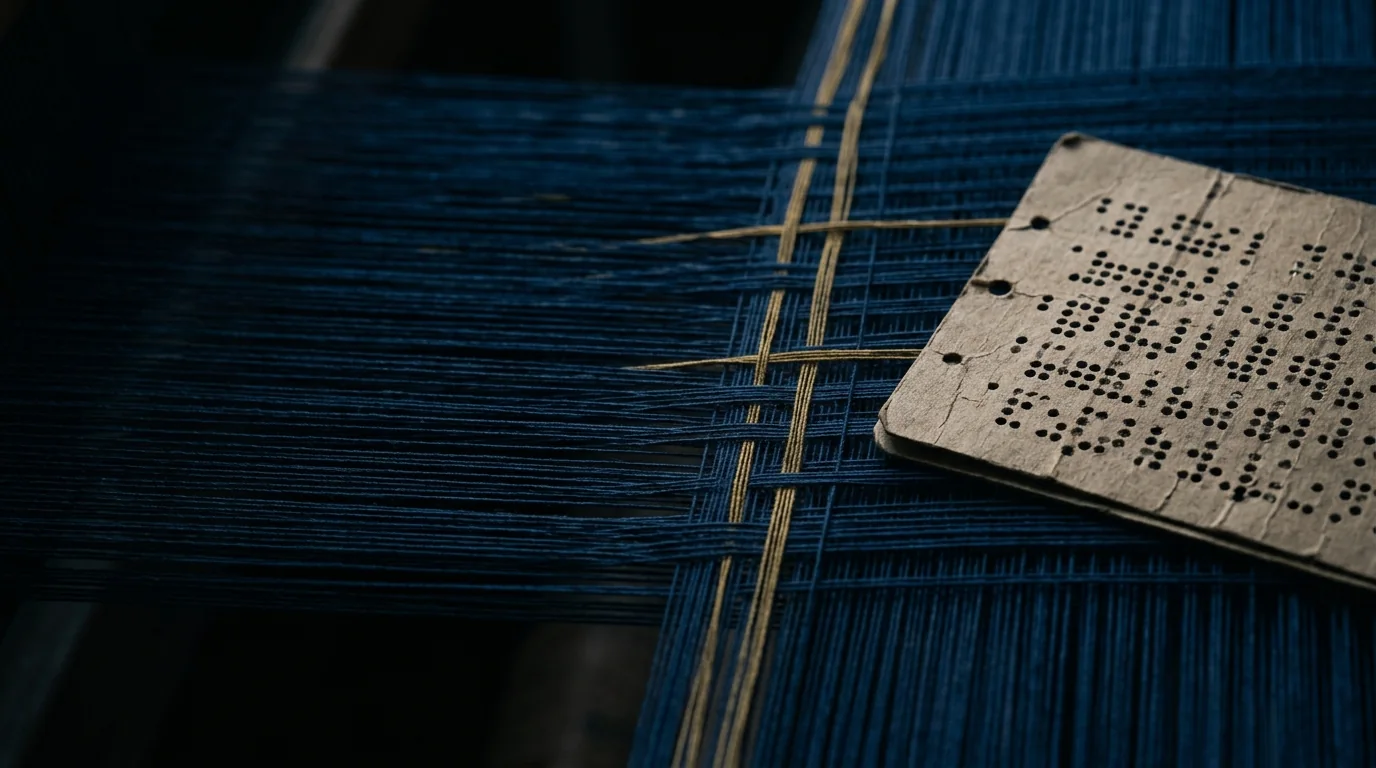
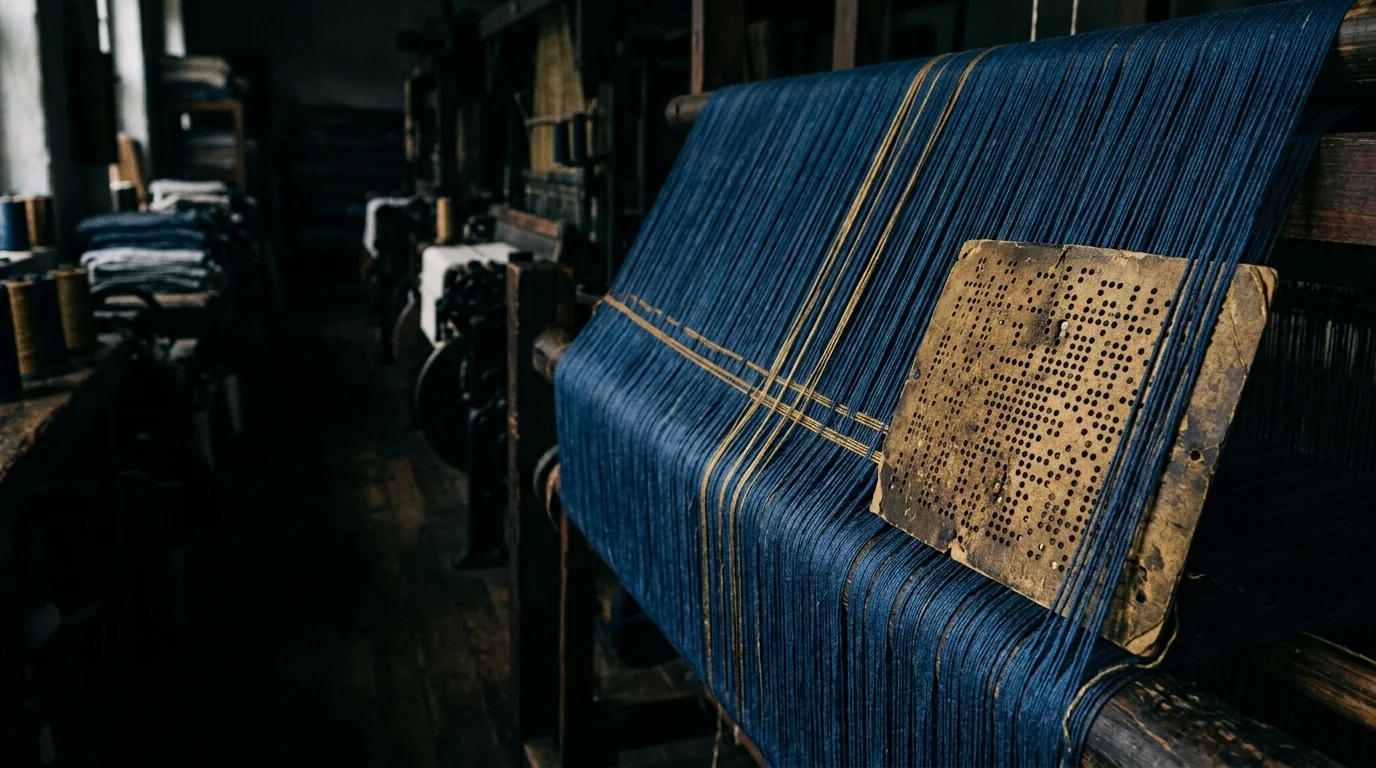
feat: hero de tela cheia com a foto do tear e a faixa institucional no pé
Ajustes pedidos pelo Bernardo:

Sai a frase "Projeto contemplado em edital público de fomento à cultura"
das duas aparições, Projeto e rodapé, já que os logos oficiais na faixa
institucional cumprem esse papel. O campo creditoEdital ficou sem uso e
saiu de site.ts junto.

Rodapé enxuto: passa de duas colunas com assinatura em Italiana e linha
de base separada para uma linha só de 78px, com nome, contato e ano.

Convite do podcast centralizado, fechando a seção como um chamado.

Hero passa a ocupar 100svh, com a faixa institucional encostada no pé.
Isso elimina a nesga escura da seção seguinte que aparecia na primeira
vista. A faixa dos quatro territórios deu lugar à faixa branca dos
apoiadores, que saiu do fim da página e agora fecha o hero, mais fina, em
uma fileira só e com as marcas agrupadas à direita. Os territórios
continuam na seção Regiões, com mais detalhe.

Foto do hero trocada pelo tear jacquard com o cartão perfurado. No mobile
o recorte vai para 78% da largura, mostrando o tear e o cartão, e o véu
deixa de ser lateral e passa a ser vertical, porque ali o texto ocupa a
largura toda. Contraste medido no fundo real com o texto oculto: olho
6,0:1, título 4,3:1, parágrafo 12,8:1, botões 7,1:1, link do voo 7,5:1.

Volta o convite para a experiência imersiva /voo, perdido na reescrita
das seções. Agora é um fio em monoespaçada com filete de ouro em vez de
um terceiro botão com emoji, e segue oculto no mobile enquanto não houver
versão 9:16.
[…]

diff --git a/src/data/site.ts b/src/data/site.ts
@@ -8,8 +8,6 @@ export const site = {
   // Vazio = o site mostra apenas o e-mail (mailto) — comportamento correto, não é erro:
   formEndpoint: '',
   instagram: '', // preencher quando o perfil existir (URL completa)
-  // Ajustar com o nome oficial do edital quando confirmado com a equipe:
-  creditoEdital: 'Projeto contemplado em edital público de fomento à cultura.',
   // Endereço público real (canonical + Open Graph). Trocar por https://rotasdamodars.com.br
   // no dia em que o domínio for registrado — enquanto ele não existe, apontar para cá evita
   // card em branco quando o link é compartilhado no WhatsApp/Instagram.
